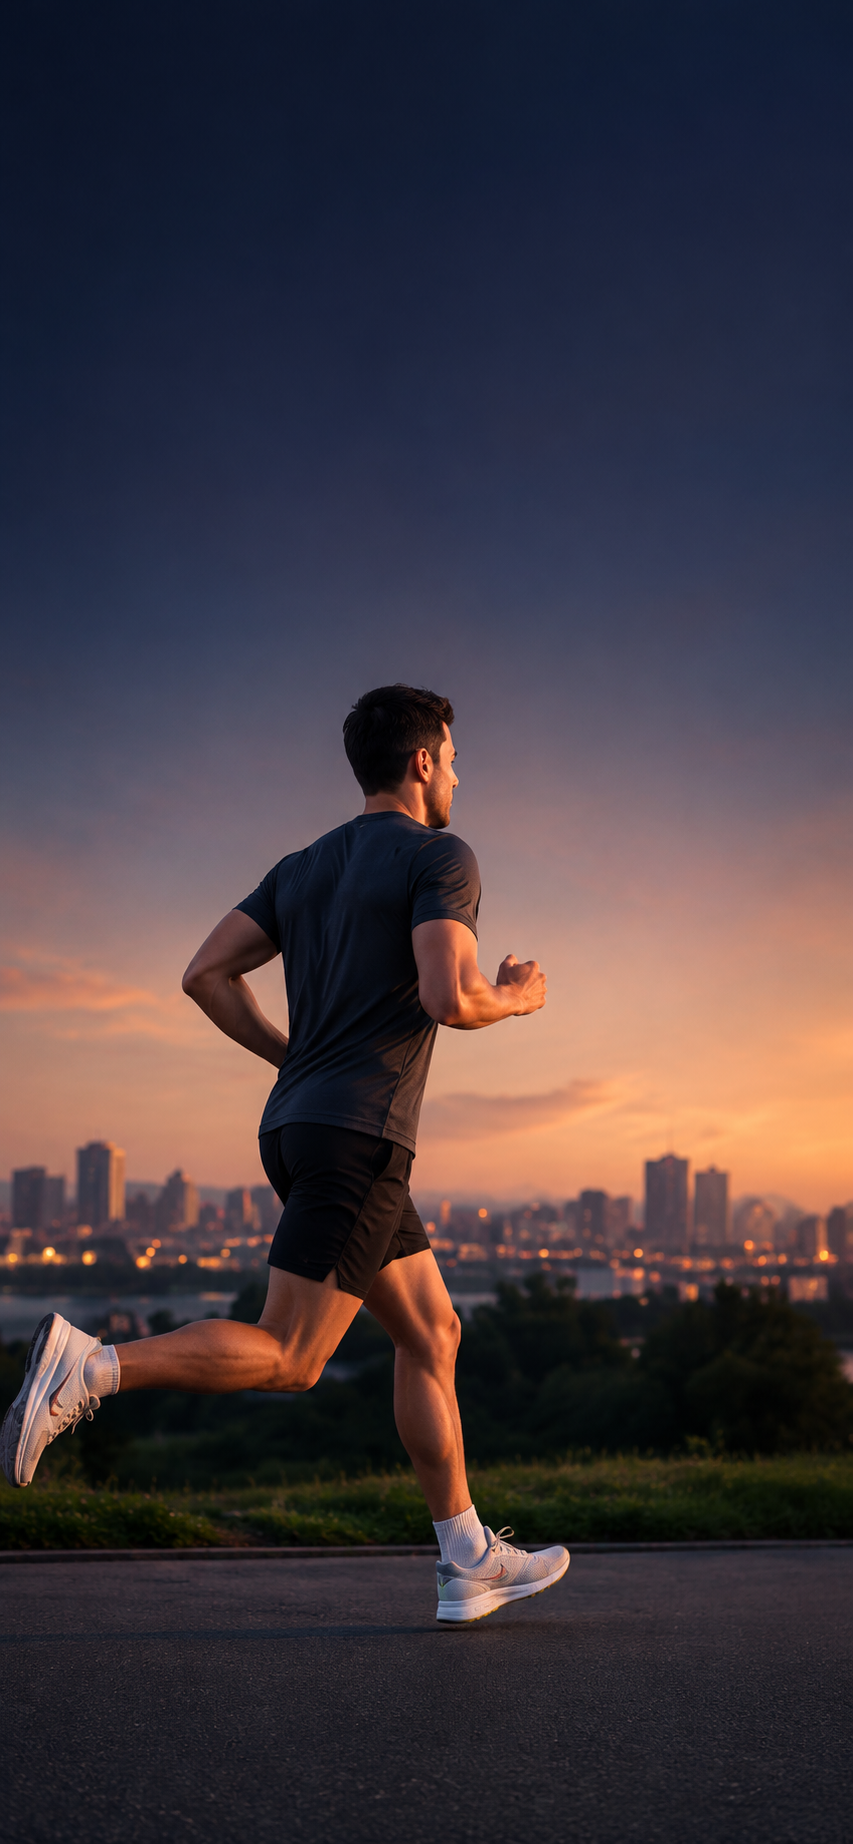
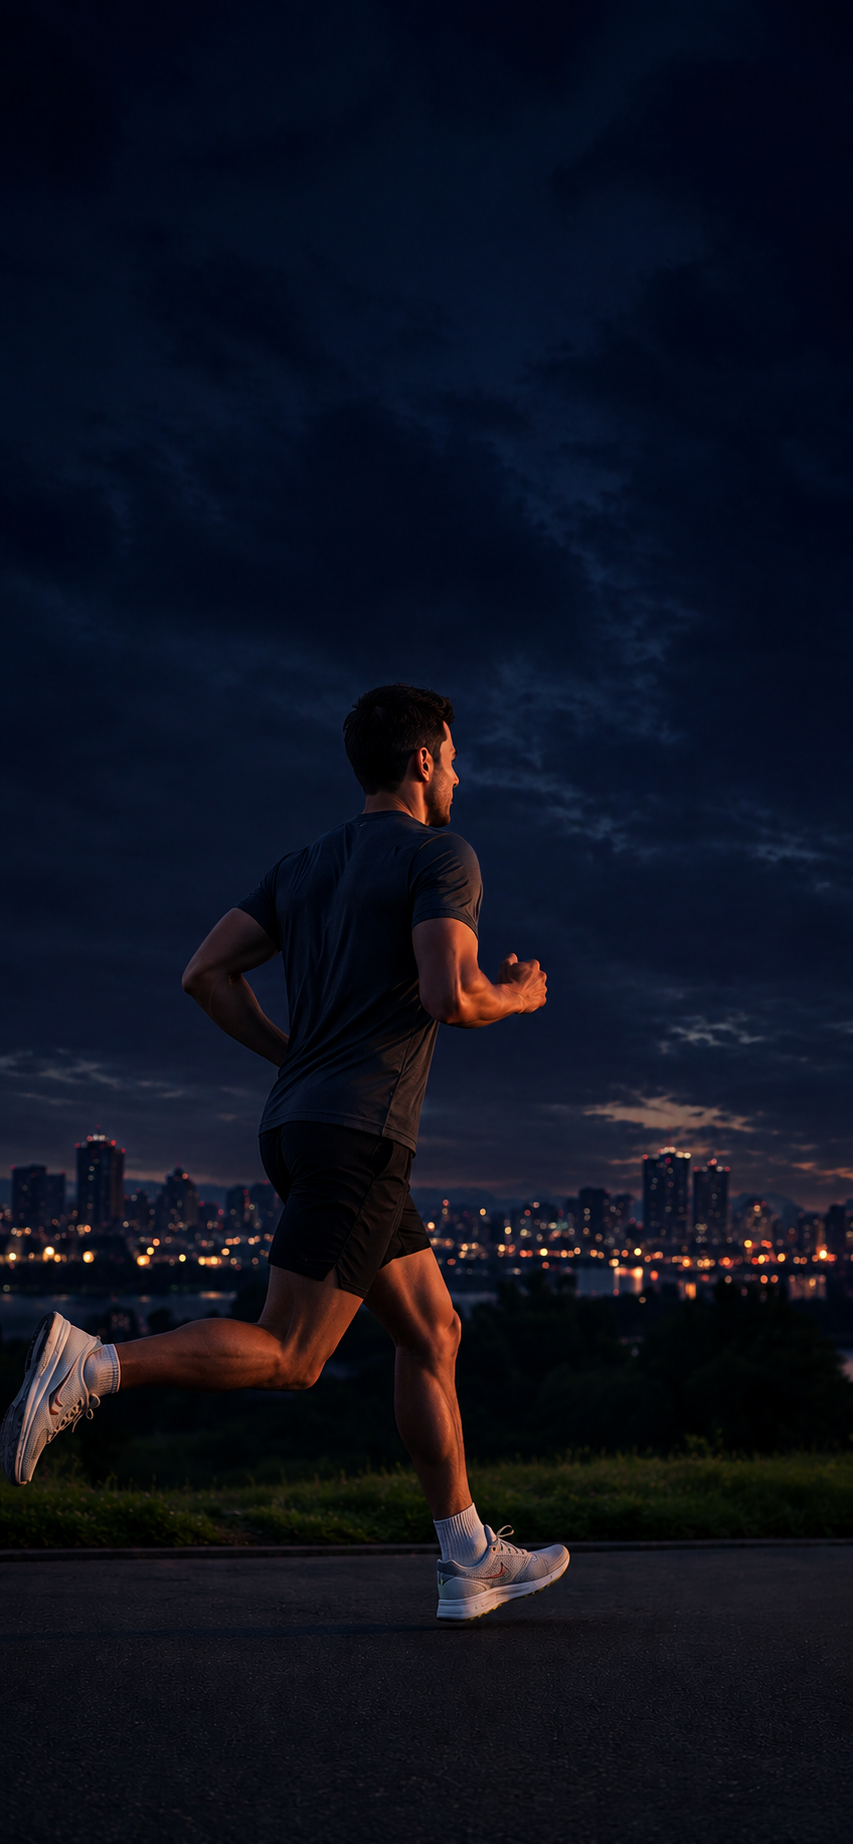
get stared

diff --git a/src/constants/theme.ts b/src/constants/theme.ts
@@ -2,45 +2,127 @@ import '@/global.css';
 import { Platform } from 'react-native';
 
 export const Colors = {
-  light: {
-    text: '#FFFFFF',
-    background: '#0A0A1A',
-    backgroundElement: '#1A1A2E',
-    backgroundSelected: '#2A2A3E',
-    textSecondary: '#8E8E9E',
-    card: '#1A1A2E',
-    cardBorder: 'rgba(255,255,255,0.08)',
-    primary: '#00D4FF',
-    secondary: '#00FF88',
-    accent: '#FF6B35',
-    border: 'rgba(255,255,255,0.1)',
-    danger: '#FF4444',
-    success: '#00FF88',
-    warning: '#FFD700',
-    overlay: 'rgba(0,0,0,0.6)',
-    glass: 'rgba(255,255,255,0.05)',
-  },
-  dark: {
-    text: '#FFFFFF',
-    background: '#0A0A1A',
-    backgroundElement: '#1A1A2E',
-    backgroundSelected: '#2A2A3E',
-    textSecondary: '#8E8E9E',
-    card: '#1A1A2E',
-    cardBorder: 'rgba(255,255,255,0.08)',
-    primary: '#00D4FF',
-    secondary: '#00FF88',
-    accent: '#FF6B35',
-    border: 'rgba(255,255,255,0.1)',
-    danger: '#FF4444',
-    success: '#00FF88',
-    warning: '#FFD700',
-    overlay: 'rgba(0,0,0,0.6)',
-    glass: 'rgba(255,255,255,0.05)',
-  },
+  // ===========================
+  // Brand
+  // ===========================
+  primary: '#B7FF3C',
+  primaryLight: '#D8FF5A',
+  primaryDark: '#8FD600',
+
+  secondary: '#3B82F6',
+  secondaryLight: '#60A5FA',
+
+  accent: '#00E5A8',
+
+  // ===========================
+  // Backgrounds
+  // ===========================
+  background: '#0B1020',
+  backgroundSecondary: '#111827',
+  backgroundTertiary: '#1A2238',
+
+  surface: '#161D2E',
+  card: '#1D263A',
+
+  // ===========================
+  // Text
+  // ===========================
+  text: '#FFFFFF',
+  textSecondary: '#B5BDC9',
+  textMuted: '#7D8799',
+  textDisabled: '#556070',
+
+  // ===========================
+  // Border & Divider
+  // ===========================
+  border: '#2A3448',
+  divider: '#242E42',
+
+  // ===========================
+  // Status
+  // ===========================
+  success: '#22C55E',
+  warning: '#F59E0B',
+  error: '#EF4444',
+  info: '#3B82F6',
+
+  // ===========================
+  // Running Stats
+  // ===========================
+  calories: '#FF7A00',
+  distance: '#3B82F6',
+  duration: '#A855F7',
+  steps: '#B7FF3C',
+  heartRate: '#FF3B5C',
+  speed: '#00D4FF',
+  elevation: '#FACC15',
+
+  // ===========================
+  // Map
+  // ===========================
+  route: '#B7FF3C',
+  territory: 'rgba(183,255,60,0.28)',
+  territoryBorder: '#B7FF3C',
+
+  userLocation: '#3B82F6',
+  enemyTerritory: '#FF4D4F',
+
+  // ===========================
+  // Buttons
+  // ===========================
+  buttonPrimary: '#B7FF3C',
+  buttonPrimaryText: '#0B1020',
+
+  buttonSecondary: '#232D44',
+  buttonSecondaryText: '#FFFFFF',
+
+  buttonDisabled: '#30384A',
+
+  // ===========================
+  // Inputs
+  // ===========================
+  inputBackground: '#161D2E',
+  inputBorder: '#2F3B55',
+  placeholder: '#6F7A90',
+
+  // ===========================
+  // Charts
+  // ===========================
+  chartGreen: '#B7FF3C',
+  chartBlue: '#3B82F6',
+  chartOrange: '#FF8A00',
+  chartPurple: '#A855F7',
+  chartRed: '#EF4444',
+
+  // ===========================
+  // Badges & Achievement
+  // ===========================
+  gold: '#FFD54A',
+  silver: '#C0C8D2',
+  bronze: '#C97A3A',
+
+  // ===========================
+  // Overlay
+  // ===========================
+  overlay: 'rgba(0,0,0,0.65)',
+  backdrop: 'rgba(11,16,32,0.92)',
+
+  // ===========================
+  // Shadows
+  // ===========================
+  shadow: '#000000',
+
+  // ===========================
+  // Gradient
+  // ===========================
+  gradientPrimary: ['#D8FF5A', '#B7FF3C', '#8FD600'],
+
+  gradientDark: ['#0B1020', '#111827'],
+
+  gradientCard: ['#1A2238', '#161D2E'],
 } as const;
 
-export type ThemeColor = keyof typeof Colors.light & keyof typeof Colors.dark;
+export type ThemeColor = keyof typeof Colors;
 
 export const Fonts = Platform.select({
   ios: {

diff --git a/src/app/login.tsx b/src/app/login.tsx
@@ -1,14 +1,100 @@
-import { View } from 'react-native';
-import { Image } from 'expo-image';
+import { Image } from "expo-image";
+import { router } from "expo-router";
+import { Dimensions, Pressable, Text, View } from "react-native";
+
+const { height: SCREEN_HEIGHT } = Dimensions.get("window");
 
 export default function LoginScreen() {
   return (
     <View className="flex-1">
       <Image
-        source={require('@/assets/images/banner.png')}
-        style={{ width: '100%', height: '100%' }}
+        source={require("@/assets/images/banner.png")}
+        style={{ width: "100%", height: "100%" }}
         contentFit="cover"
       />
+      <View
+        style={{
+          position: "absolute",
+          top: 0,
+          left: 0,
+          right: 0,
+          height: SCREEN_HEIGHT * 0.4,
+          alignItems: "center",
+          justifyContent: "center",
+          paddingHorizontal: 32,
+        }}
+      >
+        <Image
+          source={require("@/assets/logo/logo.png")}
+          style={{ width: 100, height: 100, marginBottom: -10 }}
+          contentFit="contain"
+        />
+        <View style={{ flexDirection: "row", alignItems: "baseline" }}>
+          <Text
+            style={{
+              fontSize: 62,
+              fontWeight: "800",
+              color: "#FFFFFF",
+              letterSpacing: 2,
+            }}
+          >
+            step
+          </Text>
+          <Text
+            style={{
+              fontSize: 62,
+              fontWeight: "800",
+              color: "#B7FF3C",
+              letterSpacing: 2,
+            }}
+          >
+            zo
+          </Text>
+        </View>
+        <Text
+          style={{
+            fontSize: 14,
+            color: "#888",
+            letterSpacing: 0.5,
+          }}
+        >
+          Track Every Step,
+        </Text>
+        <Text
+          style={{
+            fontSize: 14,
+            color: "#888",
+            marginTop: 4,
+            letterSpacing: 0.5,
+          }}
+        >
+          Achieve Every Goal
+        </Text>
+      </View>
+
+      <View
+        style={{
+          position: "absolute",
+          bottom: 60,
+          left: 32,
+          right: 32,
+        }}
+      >
+        <Pressable
+          style={{
+            height: 56,
+            borderRadius: 16,
+            backgroundColor: "#B7FF3C",
+            alignItems: "center",
+            justifyContent: "center",
+          }}
+          onPress={() => router.replace("/(tabs)")}
+        >
+          <Text style={{ fontSize: 17, fontWeight: "700", color: "#000" }}>
+            Get Started
+          </Text>
+        </Pressable>
+      </View>
     </View>
   );
 }

diff --git a/tailwind.config.js b/tailwind.config.js
@@ -5,18 +5,36 @@ module.exports = {
   theme: {
     extend: {
       colors: {
-        background: '#0A0A1A',
-        card: '#1A1A2E',
-        'card-border': 'rgba(255,255,255,0.08)',
-        primary: '#00D4FF',
-        secondary: '#00FF88',
-        accent: '#FF6B35',
-        'text-secondary': '#8E8E9E',
-        'bg-element': '#1A1A2E',
-        'bg-selected': '#2A2A3E',
-        danger: '#FF4444',
-        success: '#00FF88',
-        warning: '#FFD700',
+        background: '#0B1020',
+        'background-secondary': '#111827',
+        'background-tertiary': '#1A2238',
+        surface: '#161D2E',
+        card: '#1D263A',
+        primary: '#B7FF3C',
+        'primary-light': '#D8FF5A',
+        'primary-dark': '#8FD600',
+        secondary: '#3B82F6',
+        'secondary-light': '#60A5FA',
+        accent: '#00E5A8',
+        'text-secondary': '#B5BDC9',
+        'text-muted': '#7D8799',
+        'text-disabled': '#556070',
+        border: '#2A3448',
+        divider: '#242E42',
+        success: '#22C55E',
+        warning: '#F59E0B',
+        error: '#EF4444',
+        info: '#3B82F6',
+        calories: '#FF7A00',
+        distance: '#3B82F6',
+        duration: '#A855F7',
+        steps: '#B7FF3C',
+        'heart-rate': '#FF3B5C',
+        speed: '#00D4FF',
+        elevation: '#FACC15',
+        gold: '#FFD54A',
+        silver: '#C0C8D2',
+        bronze: '#C97A3A',
       },
     },
   },

diff --git a/src/hooks/use-theme.ts b/src/hooks/use-theme.ts
@@ -1,9 +1,5 @@
 import { Colors } from '@/constants/theme';
-import { useColorScheme } from '@/hooks/use-color-scheme';
 
 export function useTheme() {
-  const scheme = useColorScheme();
-  const theme = scheme === 'unspecified' ? 'light' : scheme;
-
-  return Colors[theme];
+  return Colors;
 }
